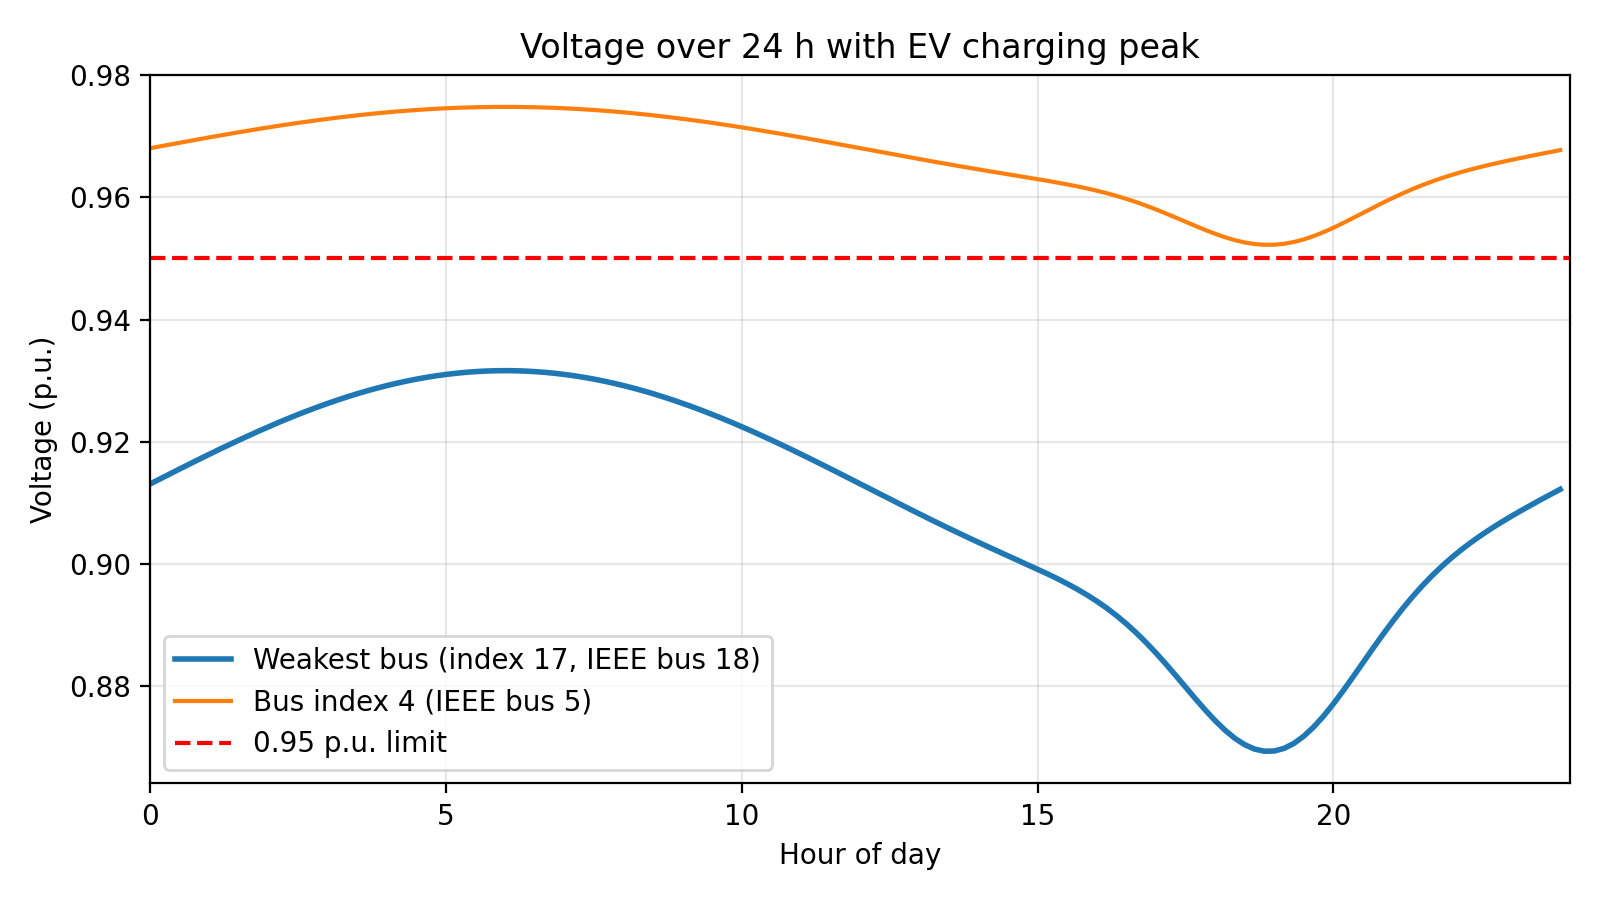
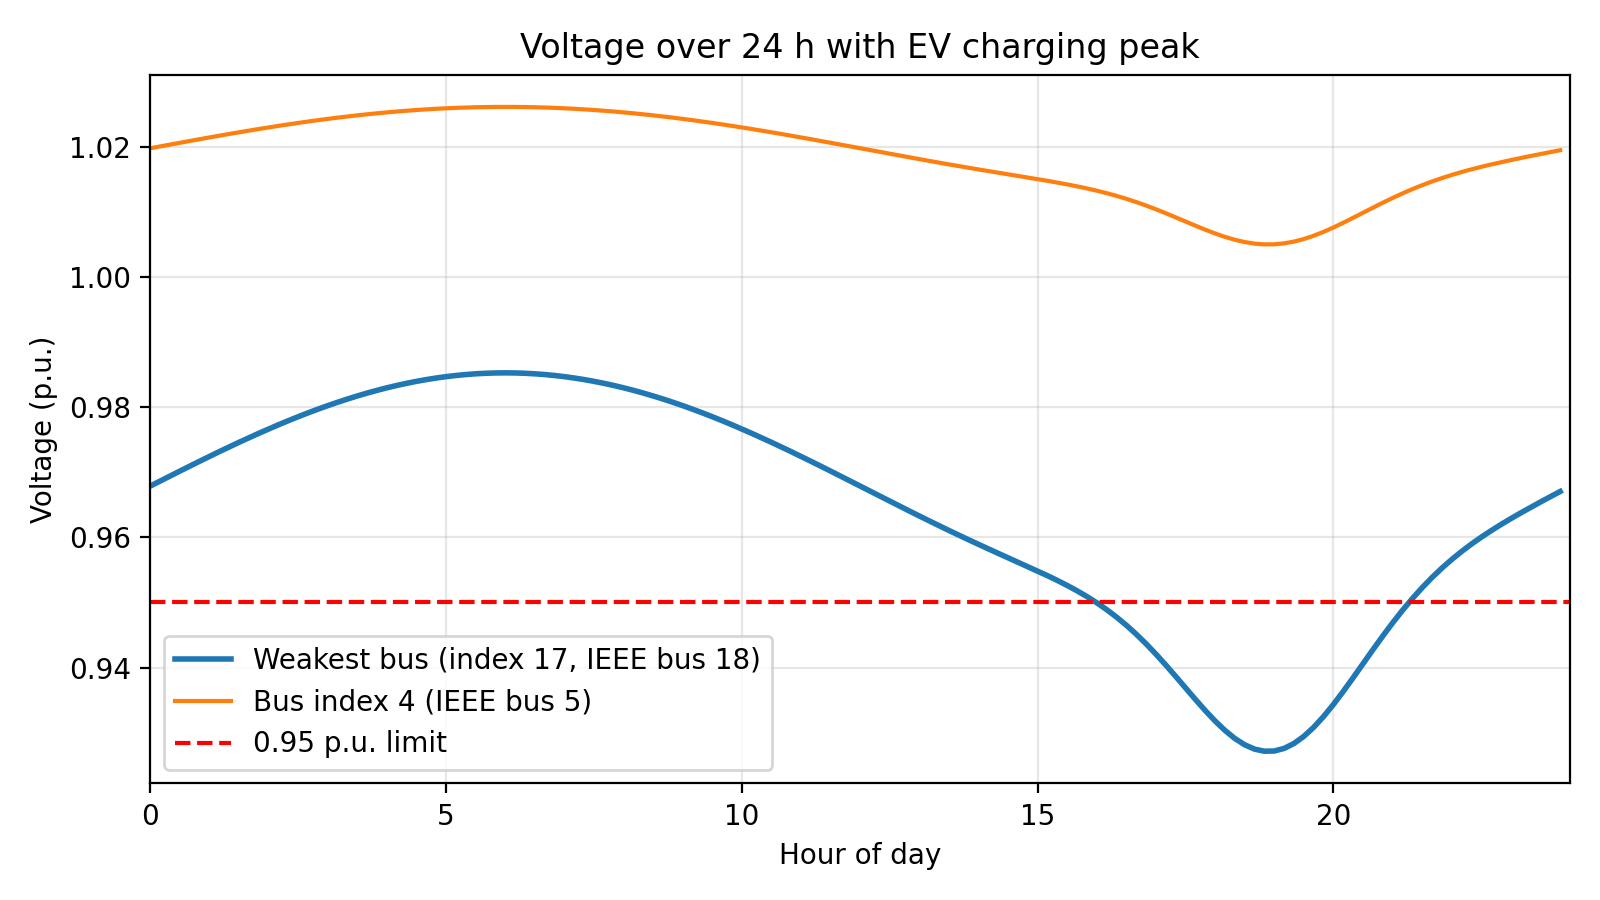
Raise slack voltage to 1.05 pu

diff --git a/ev_load_generator.py b/ev_load_generator.py
@@ -12,11 +12,13 @@ import load_profiles as lp
 
 SINGLE, MULTI, TIME = ("ieee33_ev_voltage_dataset.npy",
                        "ieee33_ev_voltage_dataset_multi.npy", "simulation_time_axis.npy")
+SLACK_V = 1.05   # substation voltage (p.u.)
 
 
 def simulate(multipliers):
     """Run an AC power flow per step. Failed steps stay NaN so they are never hidden."""
     net = nw.case33bw()
+    net.ext_grid["vm_pu"] = SLACK_V
     p0, q0 = net.load.p_mw.copy(), net.load.q_mvar.copy()
     v = np.full((len(multipliers), len(net.bus)), np.nan)
     for i, m in enumerate(multipliers):
@@ -36,7 +38,7 @@ def report(v, mult, t):
     print(f"Peak load multiplier: {mult.max():.3f} x base load")
     print(f"Minimum voltage: {v.min():.4f} p.u. at bus index {bus} (IEEE bus {bus + 1}), {hh:02d}:{mm:02d}")
     print(f"Readings below 0.95 p.u.: {(v < 0.95).sum()} of {v.size}")
-    print("Note: the standard 33-bus feeder already sags below 0.95 p.u. at 1.0x base load.")
+    print(f"Slack voltage set to {SLACK_V} p.u.")
 
 
 def main():
@@ -56,7 +58,7 @@ def main():
     np.save(TIME, t)
 
     info = {"generated": datetime.datetime.now().isoformat(timespec="seconds"), "seed": args.seed,
-            "pandapower": pp.__version__, "numpy": np.__version__, "network": "pandapower case33bw",
+            "pandapower": pp.__version__, "numpy": np.__version__, "network": "pandapower case33bw","slack_voltage_pu": SLACK_V,
             "default_profile": {"base_amp": lp.BASE_AMP, "base_peak_h": lp.BASE_PEAK_H,
                                 "ev_amp": lp.EV_AMP, "ev_peak_h": lp.EV_PEAK_H, "ev_width": lp.EV_WIDTH}}
     if args.n_traj:

diff --git a/check_data.py b/check_data.py
@@ -17,8 +17,8 @@ print(f"Voltage dataset {v.shape}, time axis {t.shape}")
 check("voltage shape is (144, 33)", v.shape == (144, 33))
 check("time axis has 144 points, 10 min apart", t.shape == (144,) and np.allclose(np.diff(t), 1 / 6))
 check("no NaN or inf values", np.isfinite(v).all())
-check("slack bus (index 0) is 1.0 p.u. at every step", np.allclose(v[:, 0], 1.0))
-check("all voltages between 0.5 and 1.0 p.u.", ((v > 0.5) & (v <= 1.0 + 1e-9)).all())
+check("slack bus (index 0) is 1.05 p.u. at every step", np.allclose(v[:, 0], 1.05))
+check("all voltages between 0.5 and 1.05 p.u.", ((v > 0.5) & (v <= 1.05 + 1e-9)).all())
 step, bus = np.unravel_index(np.argmin(v), v.shape)
 print(f"Minimum voltage {v.min():.4f} p.u. at bus index {bus} (IEEE bus {bus + 1}), t = {t[step]:.2f} h")
 print(f"Readings below 0.95 p.u.: {(v < 0.95).sum()} of {v.size}")
